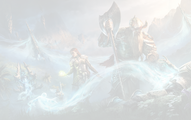
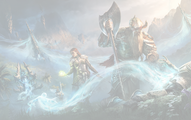
Improve graphics visibility and usage
- Increase trial background opacity from 15% to 35% for better visibility
- Increase site banner opacity from 20% to 35% for better visibility
- Increase dark overlay on trial boxes from 30% to 50% for text contrast
- Apply site banner as fixed background to entire site (body element)
- Use trial images only for trial link boxes on home page
- Site banner now provides consistent visual theme across all pages
- Regenerate all images with updated opacity settings

diff --git a/templates/home.html b/templates/home.html
@@ -47,7 +47,7 @@
                  onmouseout="this.style.borderColor='rgba(56, 239, 125, 0.3)'; this.style.transform='translateY(0)'; this.style.boxShadow='none';">
                 
                 <!-- Dark overlay for better text readability -->
-                <div style="position: absolute; top: 0; left: 0; right: 0; bottom: 0; background: rgba(0, 0, 0, 0.3); border-radius: 12px; z-index: 0;"></div>
+                <div style="position: absolute; top: 0; left: 0; right: 0; bottom: 0; background: rgba(0, 0, 0, 0.5); border-radius: 12px; z-index: 0;"></div>
                 
                 <div style="position: relative; z-index: 1;">
                     <h3 style="color: #38ef7d; margin-bottom: 15px; text-shadow: 2px 2px 4px rgba(0, 0, 0, 0.8);">{{ trial.name }}</h3>

diff --git a/templates/base.html b/templates/base.html
@@ -95,7 +95,11 @@
             font-family: -apple-system, BlinkMacSystemFont, 'Segoe UI', Roboto, 'Helvetica Neue', Arial, sans-serif;
             line-height: 1.6;
             color: #e8e8e8;
-            background: linear-gradient(135deg, #1a1a2e 0%, #16213e 50%, #0f3460 100%);
+            background: linear-gradient(135deg, #1a1a2e 0%, #16213e 50%, #0f3460 100%), url('static/banners/site_banner.png');
+            background-size: cover, auto 100%;
+            background-position: center, right center;
+            background-attachment: fixed, fixed;
+            background-blend-mode: normal, overlay;
             min-height: 100vh;
             position: relative;
         }

diff --git a/process_trial_art.py b/process_trial_art.py
@@ -24,7 +24,7 @@ BANNER_DIR.mkdir(parents=True, exist_ok=True)
 
 # Trial box background settings
 TRIAL_BOX_WIDTH = 600  # Max width for trial boxes
-TRIAL_BOX_ALPHA = 0.15  # Very faint for background
+TRIAL_BOX_ALPHA = 0.35  # Brighter for trial links
 
 # Social card settings
 SOCIAL_WIDTH = 1200
@@ -33,7 +33,7 @@ SOCIAL_ALPHA = 0.3  # More visible for social cards
 
 # Banner settings
 BANNER_HEIGHT = 120  # Height of header
-BANNER_ALPHA = 0.2  # Faint background
+BANNER_ALPHA = 0.35  # Brighter background for site/builds
 
 
 def process_trial_background(source_path: Path, output_path: Path):

diff --git a/CHANGELOG.md b/CHANGELOG.md
@@ -8,21 +8,24 @@ and this project adheres to [Semantic Versioning](https://semver.org/spec/v2.0.0
 ## [Unreleased]
 
 ### Added (2025-10-10 - Trial Graphics and Site Banner)
-- **Trial Background Images**: Added faint alpha-blended background images to trial boxes on home page
+- **Trial Background Images**: Added alpha-blended background images to trial boxes on home page
   - Processed 14 trial artwork images for optimal display
-  - Created trial-specific backgrounds at 600px width with 15% opacity
-  - Images positioned as subtle backgrounds with dark overlay for text readability
+  - Created trial-specific backgrounds at 600px width with 35% opacity (increased for better visibility)
+  - Images positioned as backgrounds with dark overlay (50% opacity) for text readability
   - Added `trial_background_image` Jinja2 filter for trial name to image mapping
   - Updated `home.html` template to include background images in trial cards
+  - Trial images used only for trial link boxes on home page
 - **Social Card Backgrounds**: Prepared 1200x630px social card backgrounds for each trial
   - Center-cropped and resized to social media dimensions
   - 30% opacity for visibility while maintaining branding
   - Ready for future social media preview integration
-- **Site Banner**: Added character artwork as header background
+- **Site Banner**: Added character artwork as background for entire site
   - Processed `site_banner_characterload.png` to 120px height
   - Right-aligned crop to preserve character positioning
-  - 20% opacity for subtle background effect
-  - Applied to header across all pages via `base.html`
+  - 35% opacity for better visibility (increased from 20%)
+  - Applied as fixed background to body element across all pages
+  - Used for header, build pages, trial pages, and home page
+  - Creates consistent visual theme throughout the site
 - **Image Processing Script**: Created `process_trial_art.py` for automated image optimization
   - Handles resizing, cropping, and alpha transparency adjustments
   - Generates three versions: trial backgrounds, social backgrounds, and site banner
